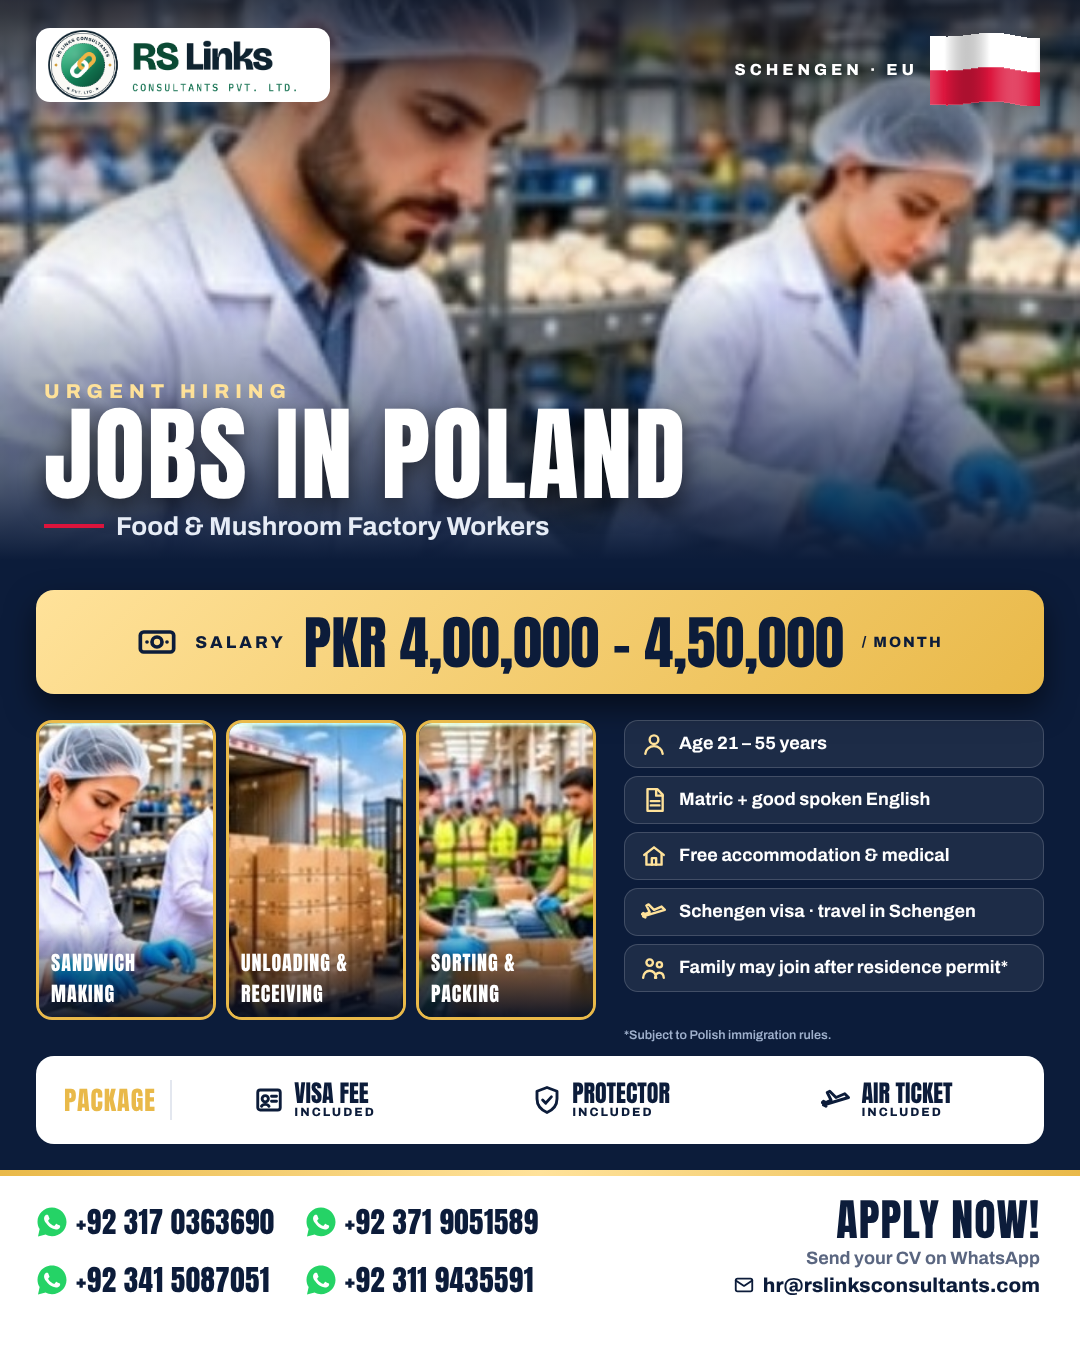
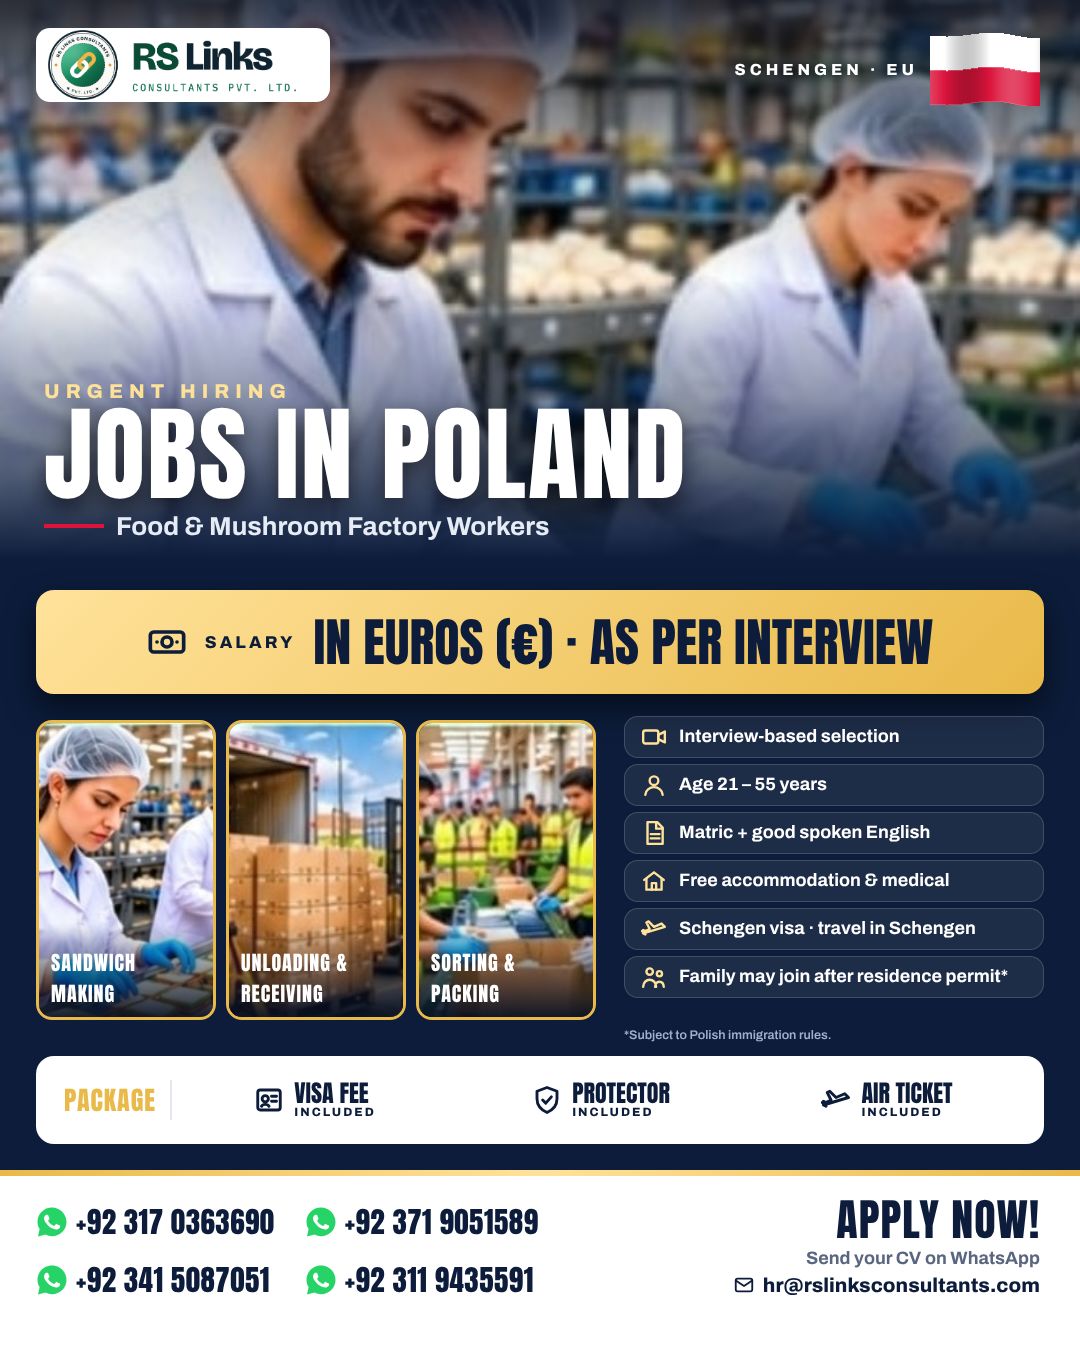
Poland ad: salary in euros as per interview, interview-based selection
Claude-Session: https://claude.ai/code/session_01YJ5ofgU8QCiWTsYR9pvXG4

Changed region(s): [[0.5806, 0.5289, 0.9472, 0.7467], [0.1222, 0.4356, 0.8861, 0.4978]]

diff --git a/src/poland_food_v2.py b/src/poland_food_v2.py
@@ -13,9 +13,9 @@ def build():
     strip = "".join(f"<div style='flex:1;position:relative;border-radius:16px;overflow:hidden;border:3px solid {GOLD}'>{ph(f)}"
                     f"<div style='position:absolute;left:0;right:0;bottom:0;padding:24px 12px 8px;background:linear-gradient(0deg,{NAVY2}EE,{NAVY2}00);font:400 20px Anton;color:#fff;letter-spacing:1px'>{t}</div></div>"
                     for f, t in [("pl_sandwich.jpg", "SANDWICH MAKING"), ("pl_unloading.jpg", "UNLOADING &amp; RECEIVING"), ("pl_packing.jpg", "SORTING &amp; PACKING")])
-    req = [("user", "Age 21 – 55 years"), ("doc", "Matric + good spoken English"), ("home", "Free accommodation &amp; medical"),
+    req = [("video", "Interview-based selection"), ("user", "Age 21 – 55 years"), ("doc", "Matric + good spoken English"), ("home", "Free accommodation &amp; medical"),
            ("plane", "Schengen visa · travel in Schengen"), ("family", "Family may join after residence permit*")]
-    chips = "".join(f"<div style='display:flex;align-items:center;gap:12px;background:#ffffff12;border:1px solid #ffffff2a;border-radius:14px;padding:10px 16px'>"
+    chips = "".join(f"<div style='display:flex;align-items:center;gap:12px;background:#ffffff12;border:1px solid #ffffff2a;border-radius:14px;padding:7px 16px'>"
                     f"{icon(ic, 26, GOLD2, 2.2)}<span style='font:700 18px Archivo;color:#fff;line-height:1.2'>{t}</span></div>" for ic, t in req)
     inc = "".join(f"<div style='flex:1;display:flex;align-items:center;justify-content:center;gap:10px'>{icon(ic, 30, NAVY, 2.3)}"
                   f"<div><div style='font:400 24px Anton;color:{NAVY};line-height:1'>{t}</div><div style='font:800 12px Archivo;color:{NAVY};letter-spacing:2px'>INCLUDED</div></div></div>"
@@ -33,10 +33,10 @@ def build():
 
 <div class='abs' style='top:590px;left:36px;right:36px;height:104px;border-radius:18px;background:linear-gradient(135deg,{GOLD2},{GOLD});display:flex;align-items:center;justify-content:center;gap:18px;box-shadow:0 14px 30px #0008'>
  {icon('money', 40, NAVY, 2.2)}<span style='font:800 17px Archivo;color:{NAVY};letter-spacing:3px'>SALARY</span>
- <span style='font:400 58px Anton;color:{NAVY}'>PKR 4,00,000 – 4,50,000</span><span style='font:800 15px Archivo;color:{NAVY};letter-spacing:2px'>/ MONTH</span></div>
+ <span style='font:400 52px Anton;color:{NAVY}'>IN EUROS (€) · AS PER INTERVIEW</span></div>
 
 <div class='abs' style='top:720px;left:36px;width:560px;height:300px;display:flex;gap:10px'>{strip}</div>
-<div class='abs' style='top:720px;right:36px;width:420px;display:flex;flex-direction:column;gap:8px'>{chips}</div>
+<div class='abs' style='top:716px;right:36px;width:420px;display:flex;flex-direction:column;gap:6px'>{chips}</div>
 <div class='abs' style='top:1028px;right:36px;width:420px;font:600 12.5px Archivo;color:#9FB0CC'>*Subject to Polish immigration rules.</div>
 
 <div class='abs' style='top:1056px;left:36px;right:36px;height:88px;border-radius:18px;background:#fff;display:flex;align-items:center;padding:0 14px'>

diff --git a/demands/2026-11-12-poland-food/facts.md b/demands/2026-11-12-poland-food/facts.md
@@ -1,3 +1,4 @@
 # Poland food & mushroom factories (2026-11-12)
 Source: other agency ad (ref.jpg). PKR 4.0–4.5 lakh/month; sandwich making, mushroom sorting, unloading & receiving, sorting & packing; age 21–55; matric + good English; free accommodation & medical; visa fee/protector/air ticket included; family after residence permit; Schengen travel.
 Dropped: guaranteed job on arrival, citizenship after 4 years, no hidden charges, high success rate, 2026 rules/easy appointments, affordable cost of living.
+- 2026-11-12: user — salary in euros, interview based -> ad shows "Salary in Euros (€) · as per interview" + "Interview-based selection"; PKR figure removed.
